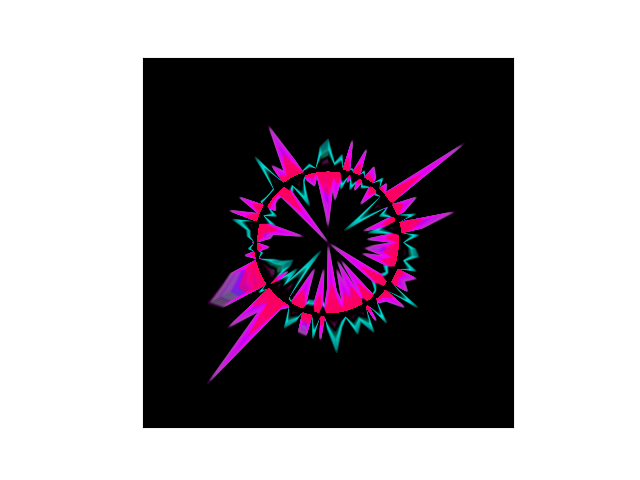
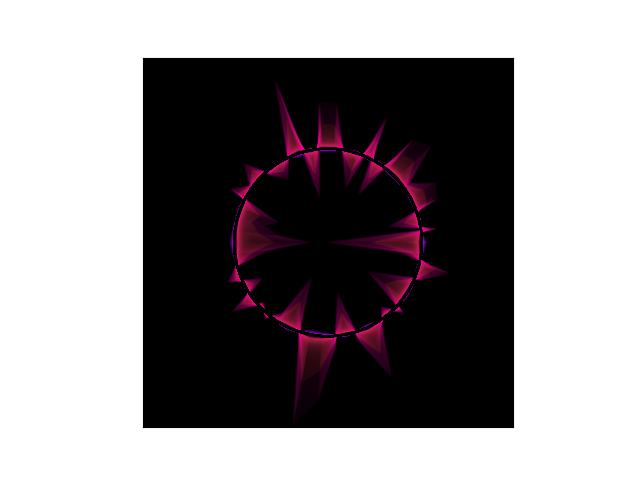
update cas test

Changed region(s): [[0.3125, 0.1875, 0.7188, 0.8438], [0.3125, 0.7188, 0.375, 0.8125], [0.5938, 0.25, 0.625, 0.2812]]

diff --git a/plot.py b/plot.py
@@ -94,11 +94,11 @@ def free_ss_response(A, x0, T, tf):
     return [X,t]
 # Demo
 def demo():
-    n       = 80
-    ncases  = 20
+    n       = 50
+    ncases  = 10
     while (True):
         [A,B,C,D]   = random_ss(n)
-        [X,t]       = free_ss_response(A,  np.random.randn(n,ncases),0.05, 20)
-        polar_trajectories(X, alpha0 = 0.2, last_black=True,alpha_change=False)
+        [X,t]       = free_ss_response(A,  np.random.randn(n,ncases),0.005, 20)
+        polar_trajectories(X, alpha0 = 0.05, last_black=True,alpha_change=False)
 
 demo()
